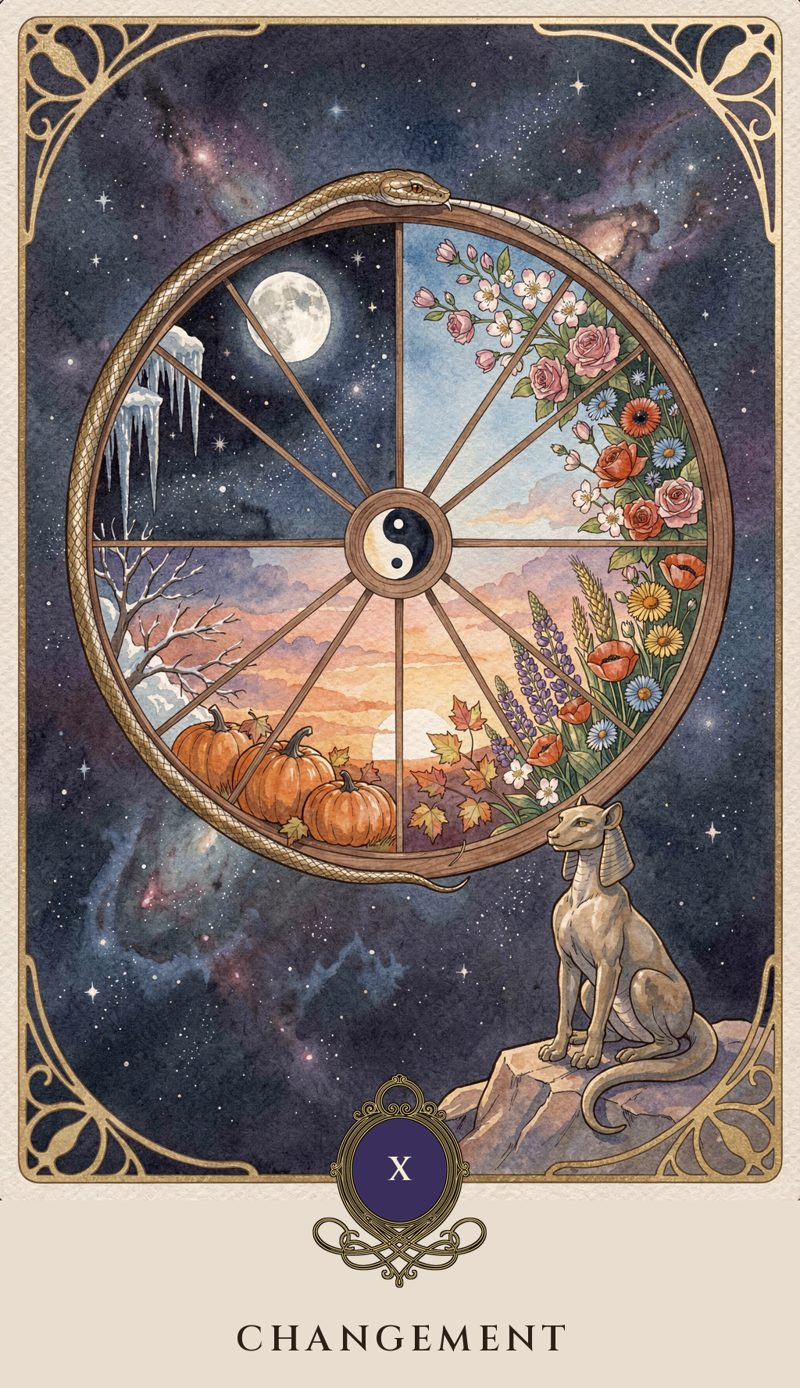
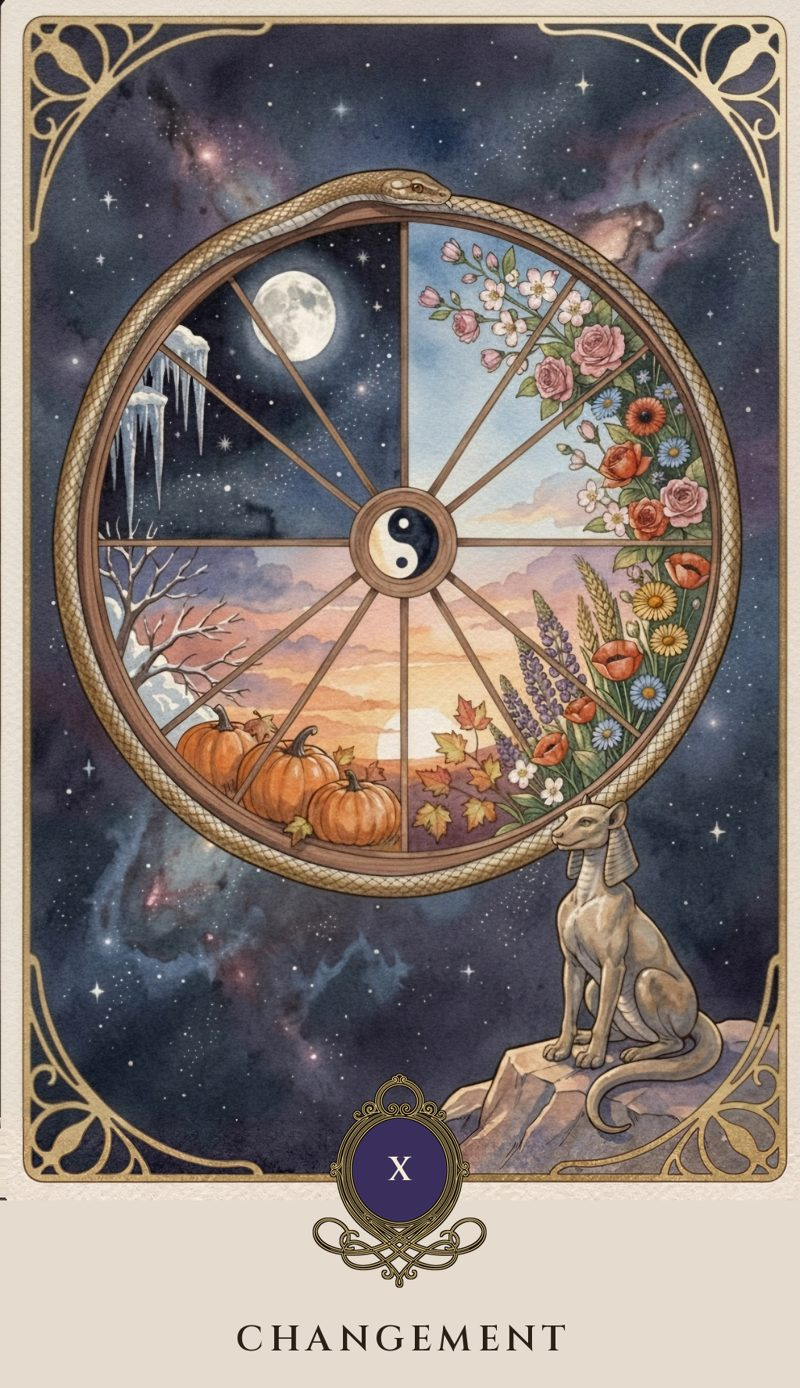
X · Changement : nouveau tirage, filigrane effacé
Le nouveau master de Martin est en place. Son bas est repris de l'ancien
master — les deux cadres sont identiques mais décalés de 6 px, mesuré par
corrélation de phase ; sans cette correction l'ornement se coupait. Le
filigrane de l'export mobile disparaît avec la bande recollée.

Fiche du Tarot : image.geste, image.détail et lumiere affirmaient une roue
« sans cases ni séparations », alors que le nouveau tirage a des rayons qui
découpent les quatre saisons. Les textes de Ta Trame décrivaient déjà
exactement cette image.

diff --git a/tarot/app.py b/tarot/app.py
@@ -254,7 +254,7 @@ def visage(id_carte):
 # Vignettes (400 px, WebP — outils/generer_vignettes.py) : dans les cases du
 # tirage, le mur du choix et les liens. La face entière reste pour le plein
 # écran et le récit. Monter le numéro après avoir régénéré les vignettes.
-VERSION_VIGNETTES = 7
+VERSION_VIGNETTES = 8
 
 
 def moyenne(id_carte):
